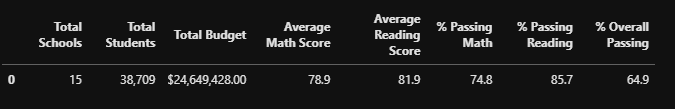
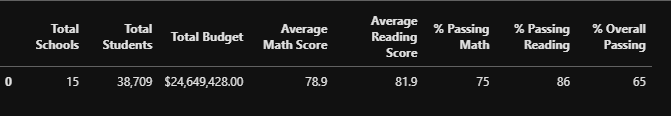
updated readme

diff --git a/README.md b/README.md
@@ -4,7 +4,30 @@
 The purpose of this project was to remove student scores from Thomas High School 9th graders and determine if and how this removal affects the school district's data analysis.
 
 ## Results
-__How is the district summary affected?__
+- __How is the district summary affected?__
 
-##![Original District Summary](./Resources/district_summary_OG.png)
-##![Re-Analyzed District Summary](./Resources/district_summary_reval.png)
+    ![Original District Summary vs Re-analyzed District Summary](./Resources/district_summaries_table.png)
+
+        -In the table above is a comparison of the original district summary versus the re-analyzed district summary. Notably, the number of total students *decreased* by **461** after removing the affected scores from Thomas High School 9th grade students. Aside from the number of students, the rest of the data was minimally affected.
+
+- __How is the school summary affected?__
+
+    ![Original School Summary](./Resources/per_school_sum_OG.png)
+    _Original School Summary_
+    ![Re-analyzed School Summary](./Resources/per_school_sum_reval.png)
+    _Re-analyzed School Summary_
+
+        -The school summaries don't have any significant differences.
+
+- __How was Thomas High School's performance affected relative to other schools after changes?__
+    ![Original Top 5 Schools](./Resources/top5_OG.png)
+    _Original School Summary_
+    ![Re-analyzed Top 5 Schools](./Resources/top5_reval.png)
+    _Re-analyzed School Summary_
+    
+        - Comparing the original 'Top 5 Schools' to the re-analyzed version, it is apparent that Thomas High School's performance with respect to other schools was unaffected- the position of each school on the list remained the same. So while there were some minor changes to score averages and passing percentages, they weren't significant enough to alter the school positions.
+        
+- __How does replacing the 9th grade 
+
+
+
